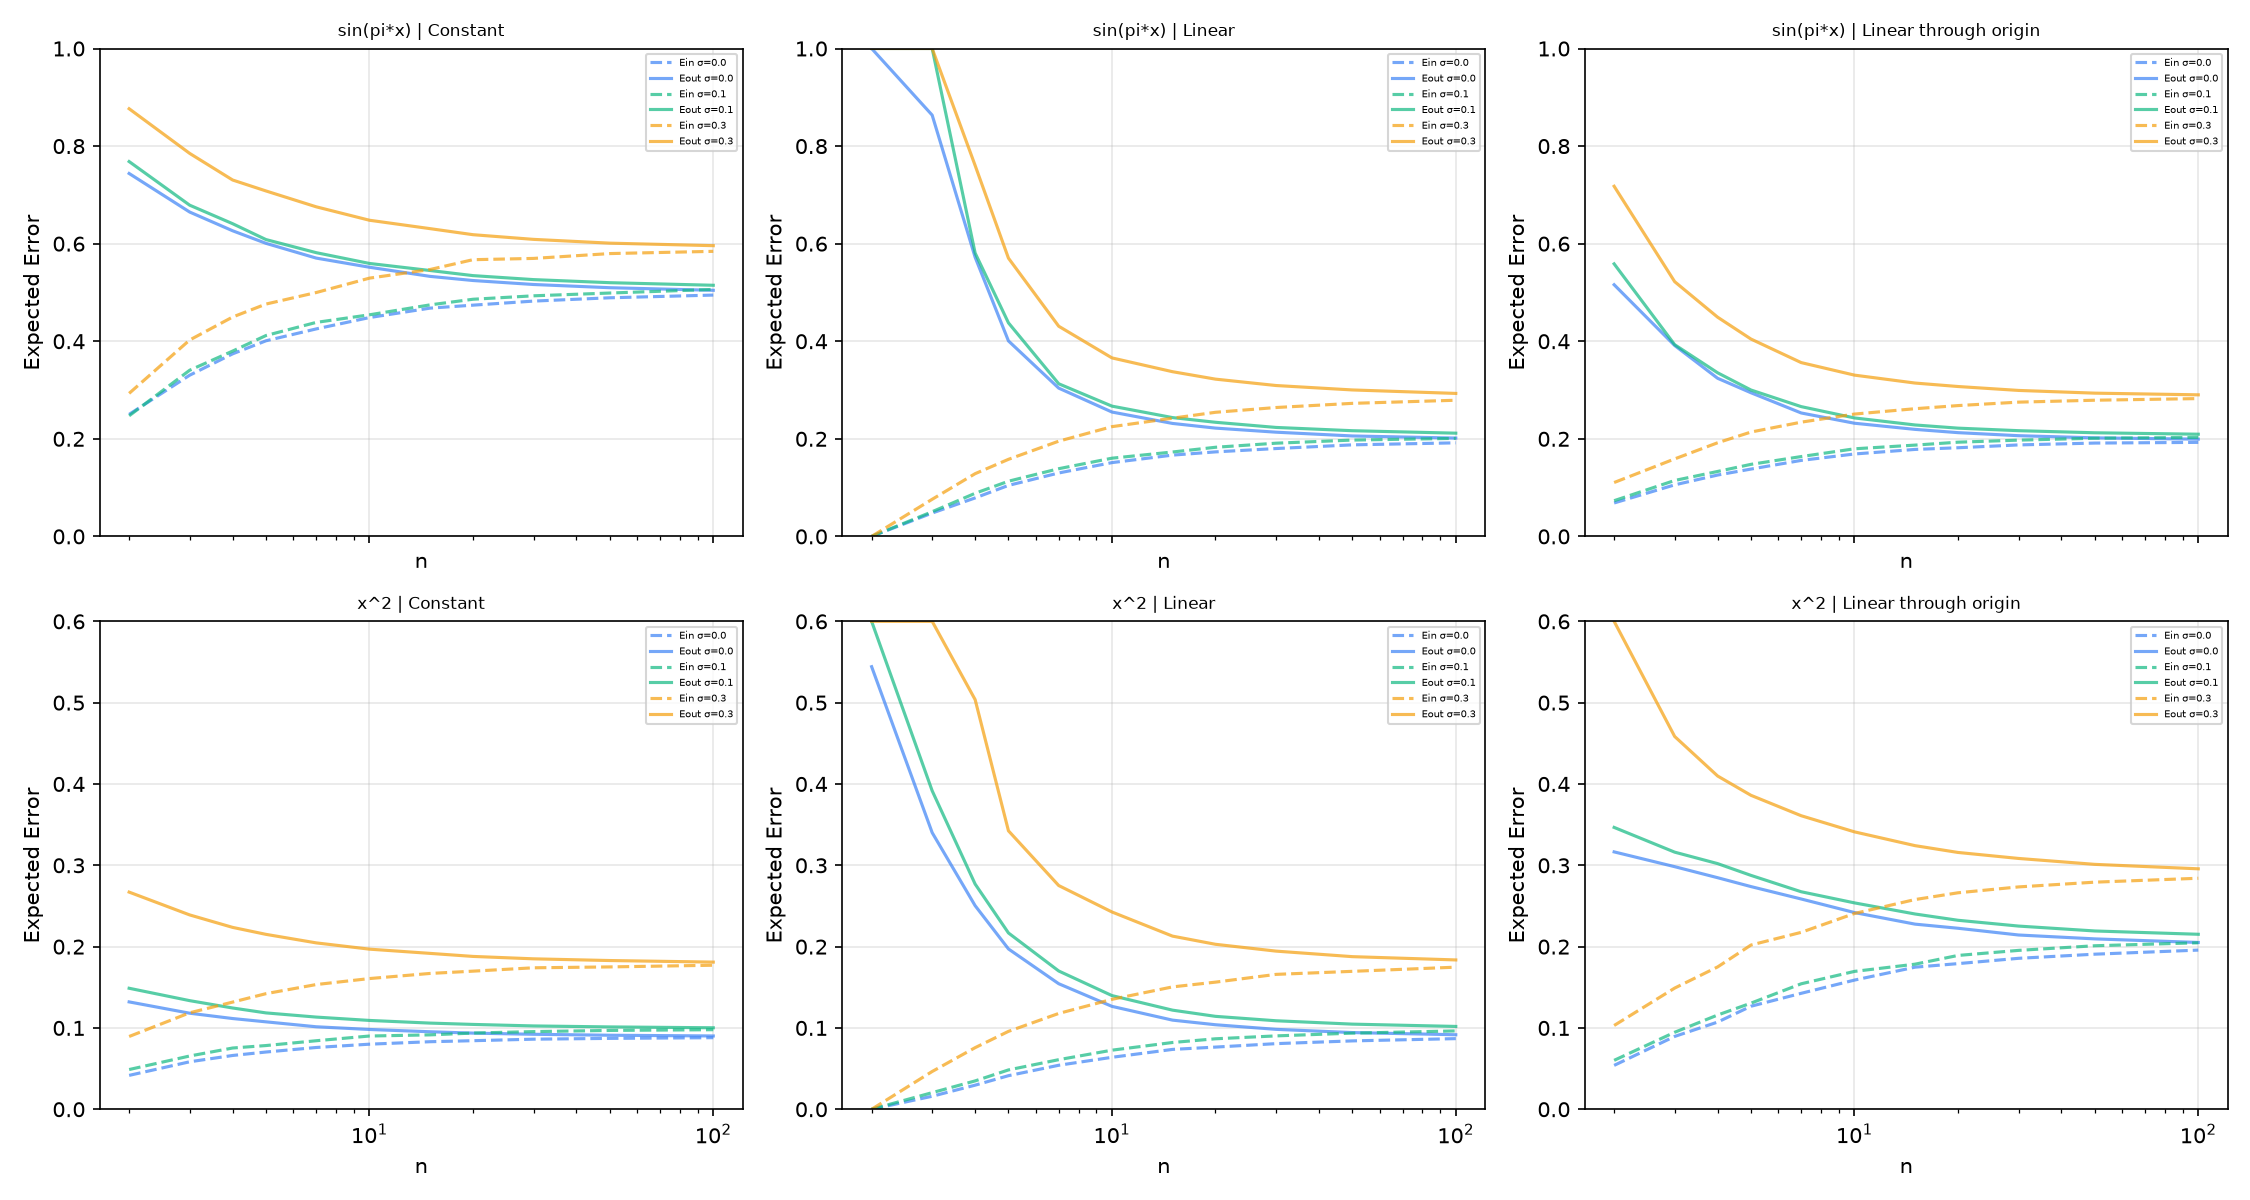
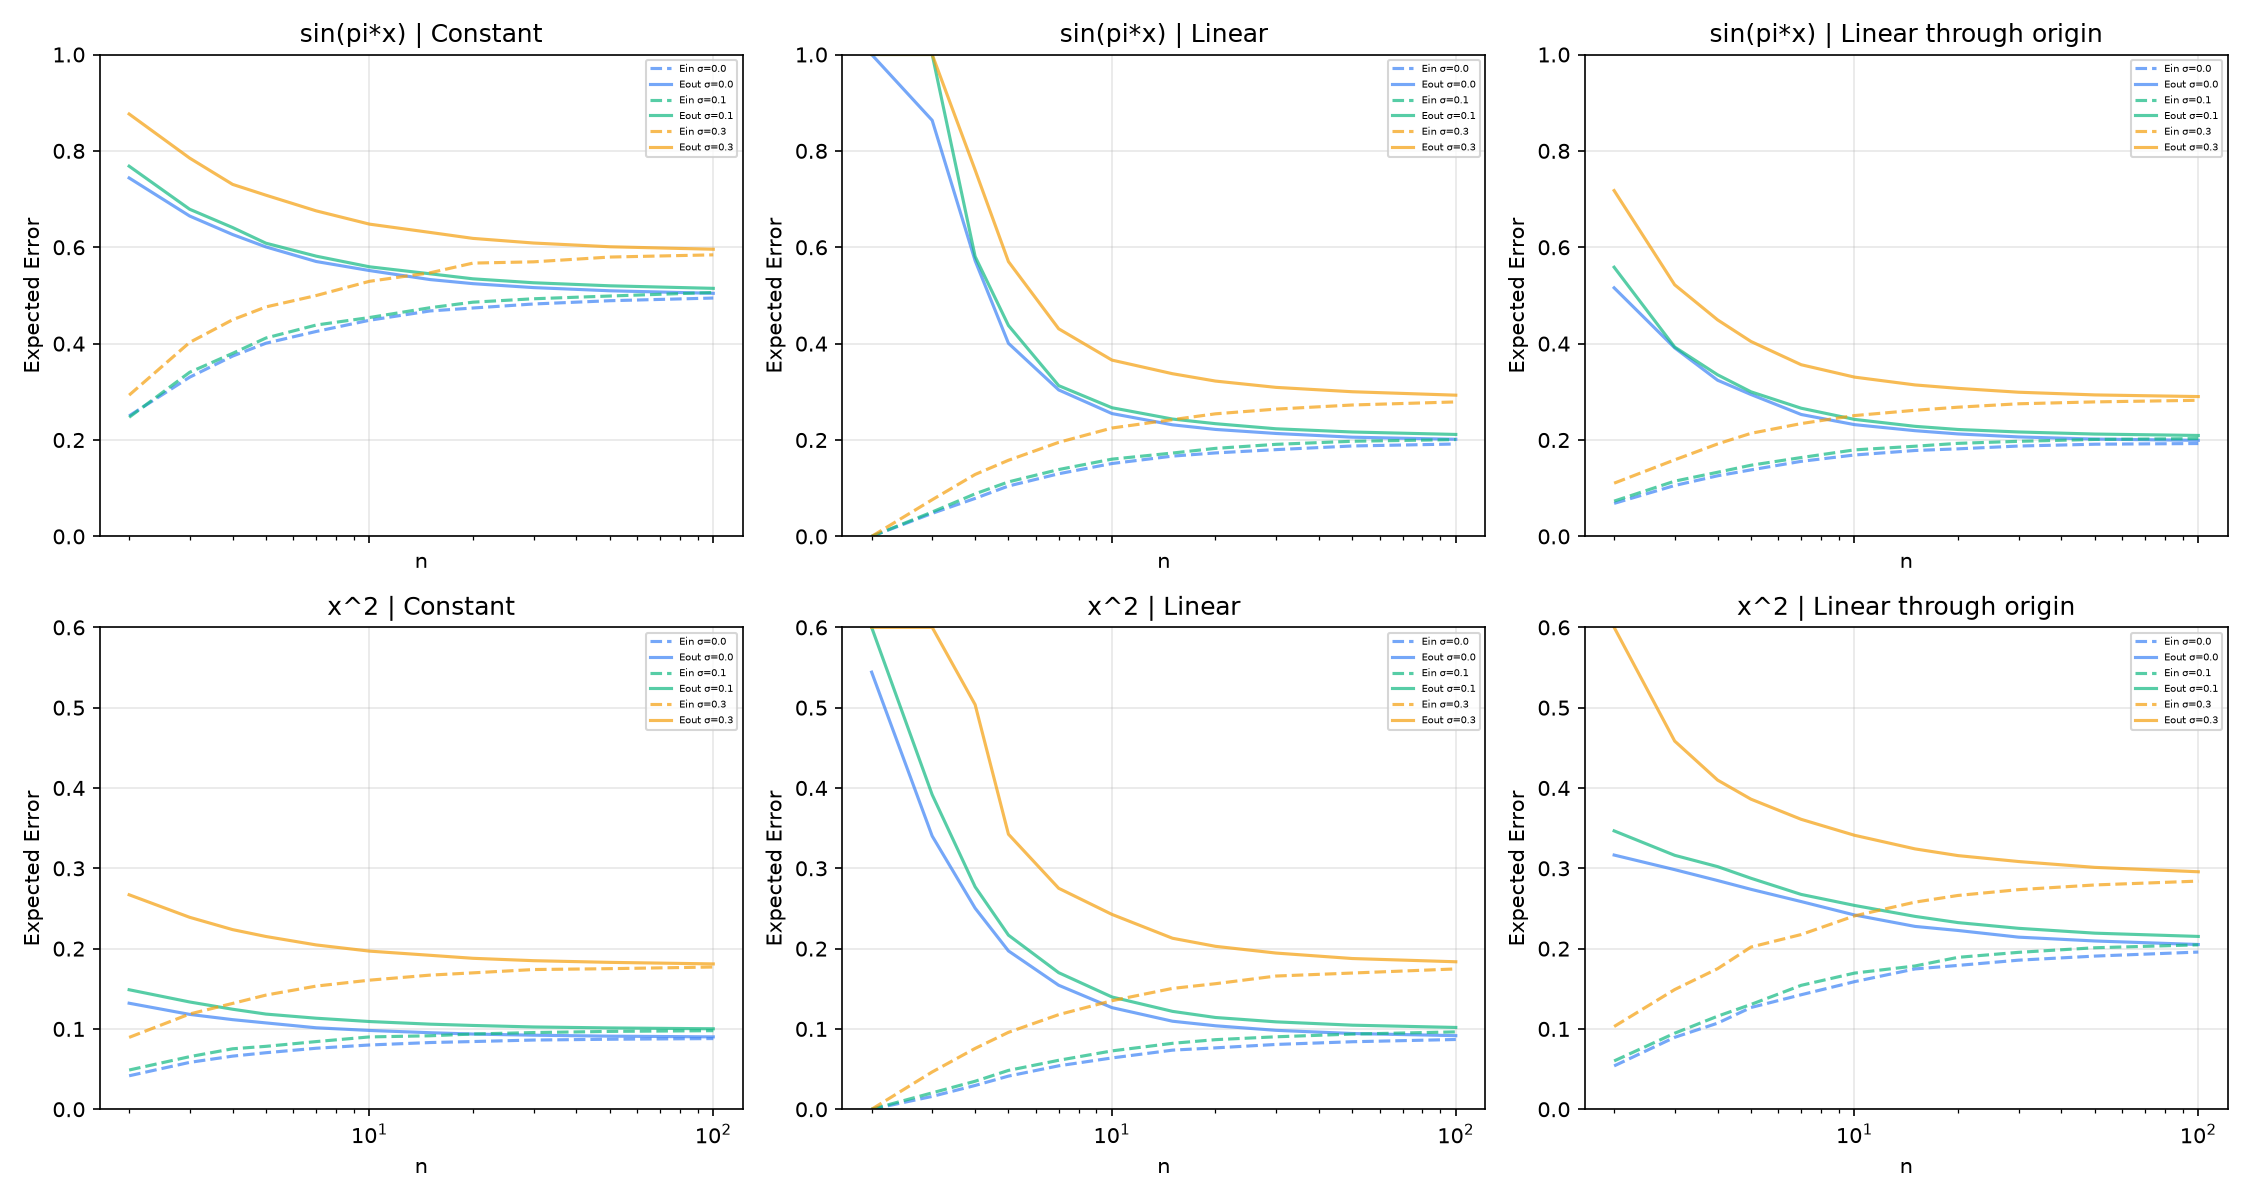
เปลี่ยนขนาด font learning_curve.ong

diff --git a/Assignment/Week3/bias_variance_lab_compact.py b/Assignment/Week3/bias_variance_lab_compact.py
@@ -99,7 +99,7 @@ for row, (target_name, f) in enumerate(TARGETS.items()):
             ax.plot(N_LIST, np.clip(Eout, 0, ymax), '-', color=COLORS[sigma], label=f'Eout σ={sigma}', alpha=0.7)
         ax.set_xlabel('n')
         ax.set_ylabel('Expected Error')
-        ax.set_title(f'{target_name} | {model}', fontsize=8)
+        ax.set_title(f'{target_name} | {model}')
         ax.set_xscale('log')
         ax.set_ylim(0, ymax)
         ax.tick_params(labelleft=True)